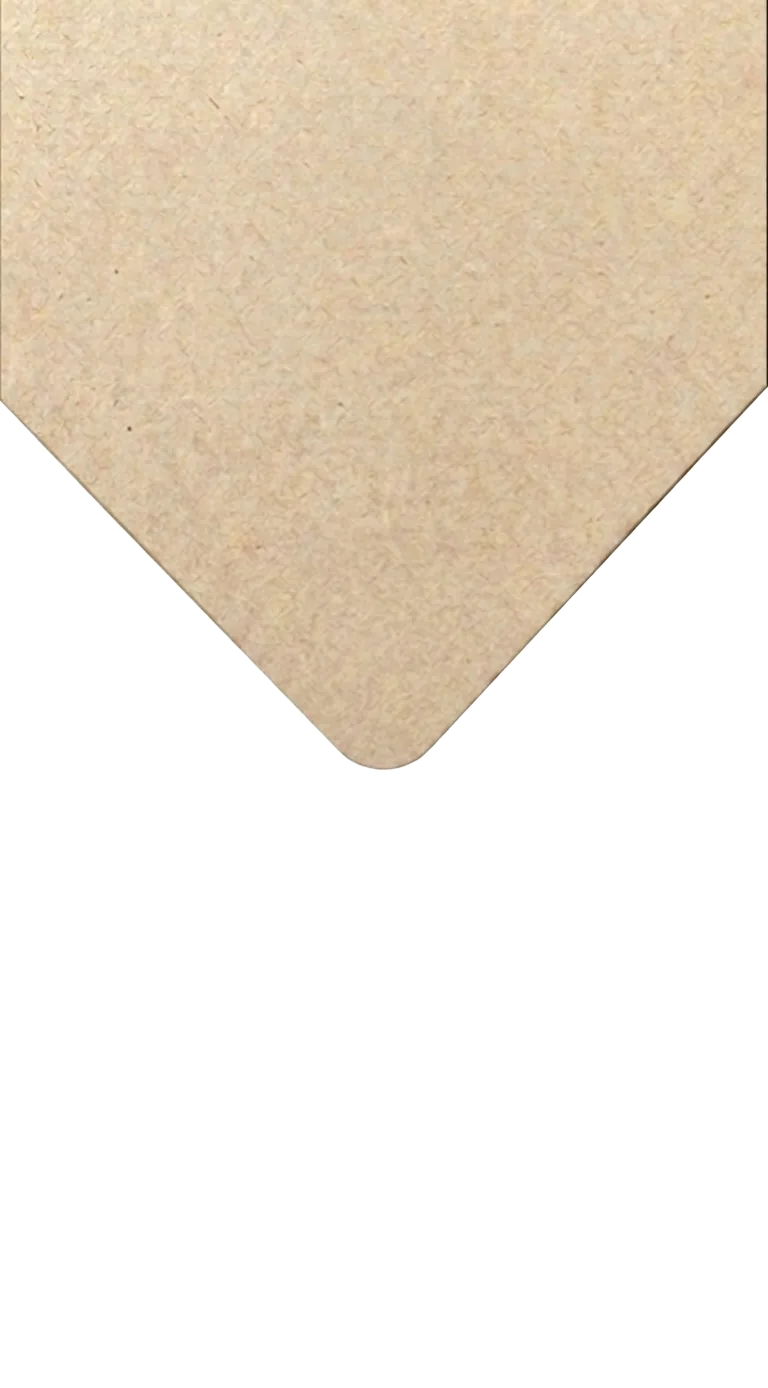
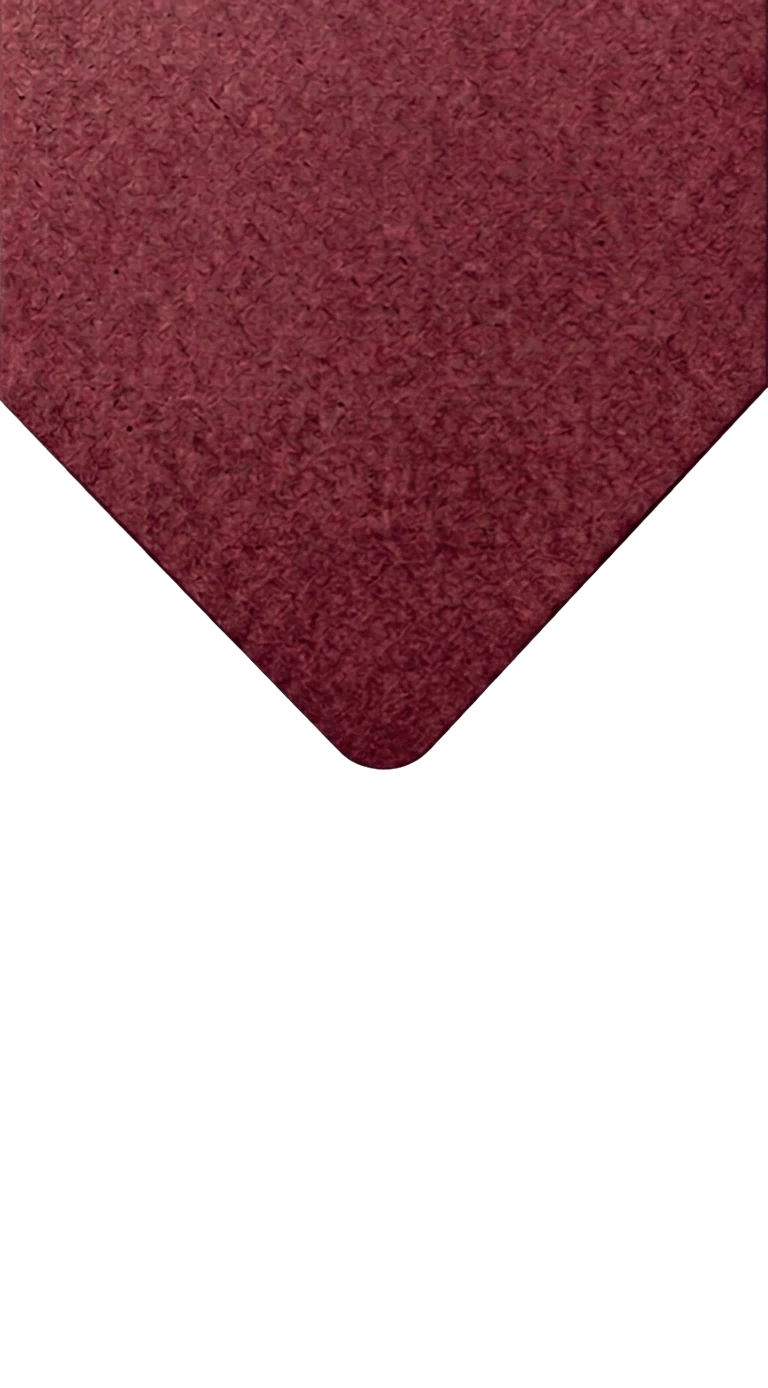
Burgundy theme: envelope, card, and site backgrounds
- Recolor the envelope to burgundy (new body + flap layers, white keyed
  out of the flap), keeping the 768x1388 geometry so the seal and
  slide-open animation stay aligned.
- Update the reveal poster to the new velvet card image (with the
  "لـ STYLE_BY_IB" line).
- Turn the whole site burgundy: recolor the dark theme to deep wine and
  make it the default/forced theme on open, so all sections reuse the
  existing gold/champagne light-text styles. Blend the countdown photo
  band, marquee, location, and preloader to the burgundy palette; flap
  and hint text switched to champagne for contrast.

Claude-Session: https://claude.ai/code/session_01AekXUfWR2AqzRwuQEMMTBZ

diff --git a/src/components/sections/Countdown.tsx b/src/components/sections/Countdown.tsx
@@ -129,14 +129,14 @@ export function Countdown() {
         className="pointer-events-none absolute inset-0 h-full w-full select-none object-cover object-center"
       />
 
-      {/* حجاب داكن يعتّم الحواف ويترك الصورة تظهر في الوسط مع بقاء الأرقام واضحة */}
+      {/* حجاب عنّابي يعتّم الحواف ويترك الصورة تظهر في الوسط مع بقاء الأرقام واضحة */}
       <div
-        className="pointer-events-none absolute inset-0 bg-[linear-gradient(to_bottom,#171310_0%,rgba(23,19,16,0.74)_20%,rgba(23,19,16,0.5)_50%,rgba(23,19,16,0.74)_80%,#171310_100%)]"
+        className="pointer-events-none absolute inset-0 bg-[linear-gradient(to_bottom,#2a0912_0%,rgba(42,9,18,0.76)_20%,rgba(42,9,18,0.5)_50%,rgba(42,9,18,0.76)_80%,#2a0912_100%)]"
         aria-hidden
       />
       {/* تظليل جانبي خفيف لعمق سينمائي */}
       <div
-        className="pointer-events-none absolute inset-0 bg-[radial-gradient(120%_100%_at_50%_50%,transparent_38%,rgba(15,12,9,0.55)_100%)]"
+        className="pointer-events-none absolute inset-0 bg-[radial-gradient(120%_100%_at_50%_50%,transparent_38%,rgba(20,6,12,0.55)_100%)]"
         aria-hidden
       />
 

diff --git a/src/components/envelope/Envelope.tsx b/src/components/envelope/Envelope.tsx
@@ -44,7 +44,7 @@ export function Envelope() {
 
   function open() {
     if (phase !== 'idle') return
-    setTheme('light')
+    setTheme('dark')
     setPhase('opening')
     window.setTimeout(() => setPhase('revealed'), 1250)
   }
@@ -114,7 +114,7 @@ export function Envelope() {
           />
 
           {/* السطر التمهيدي على اللسان */}
-          <p className="absolute inset-x-0 top-[11%] text-center font-body text-sm font-light tracking-wide text-[#4a3a28]/70 sm:text-base">
+          <p className="absolute inset-x-0 top-[11%] text-center font-body text-sm font-light tracking-wide text-champagne/75 sm:text-base">
             {ui.invitedEyebrow}
           </p>
 
@@ -168,7 +168,7 @@ export function Envelope() {
         {!opened && (
           <motion.p
             key="hint"
-            className="absolute bottom-[12%] left-1/2 z-30 -translate-x-1/2 text-center font-body text-sm font-light text-[#4a3a28]/70"
+            className="absolute bottom-[12%] left-1/2 z-30 -translate-x-1/2 text-center font-body text-sm font-light text-champagne/75"
             initial={{ opacity: 0 }}
             animate={{ opacity: [0.45, 0.9, 0.45] }}
             exit={{ opacity: 0, transition: { duration: 0.4, ease } }}

diff --git a/src/components/ui/ThemeToggle.tsx b/src/components/ui/ThemeToggle.tsx
@@ -30,7 +30,7 @@ export function ThemeToggle() {
       onClick={toggle}
       aria-label={theme === 'light' ? 'الوضع الليلي' : 'الوضع النهاري'}
       title={theme === 'light' ? 'الوضع الليلي' : 'الوضع النهاري'}
-      className="fixed end-4 top-4 z-[56] flex h-11 w-11 items-center justify-center rounded-full border border-beige-deep/50 bg-ivory/80 text-ink shadow-[0_10px_30px_-15px_rgba(30,22,12,0.6)] backdrop-blur transition-colors duration-500 dark:border-gold/40 dark:bg-noir/70 dark:text-champagne sm:end-6 sm:top-6"
+      className="fixed end-4 top-4 z-[56] flex h-11 w-11 items-center justify-center rounded-full border border-beige-deep/50 bg-ivory/80 text-ink shadow-[0_10px_30px_-15px_rgba(30,22,12,0.6)] backdrop-blur transition-colors duration-500 dark:border-gold/40 dark:bg-[#3a0d18]/75 dark:text-champagne sm:end-6 sm:top-6"
       whileHover={{ scale: 1.08 }}
       whileTap={{ scale: 0.92 }}
       initial={{ opacity: 0, y: -10 }}

diff --git a/src/context/theme.tsx b/src/context/theme.tsx
@@ -16,8 +16,9 @@ const ThemeContext = createContext<ThemeCtx | null>(null)
 /** Light/dark theme shared across the app, persisted in localStorage. */
 export function ThemeProvider({ children }: { children: ReactNode }) {
   const [theme, setTheme] = useState<Theme>(() => {
-    if (typeof window === 'undefined') return 'light'
-    return window.localStorage.getItem(STORAGE_KEY) === 'dark' ? 'dark' : 'light'
+    if (typeof window === 'undefined') return 'dark'
+    // البورجندي (الوضع الداكن) هو الافتراضي؛ النهاري فقط إذا اختاره الزائر صراحةً
+    return window.localStorage.getItem(STORAGE_KEY) === 'light' ? 'light' : 'dark'
   })
 
   useEffect(() => {

diff --git a/src/index.css b/src/index.css
@@ -29,21 +29,21 @@ body {
     radial-gradient(120% 80% at 50% 12%, #fffdf8 0%, #f8f4ec 42%, #efe7d7 100%);
 }
 
-/* ── Dark theme: the whole maison at night ── */
+/* ── Burgundy maison: deep wine backgrounds with gold ── */
 .dark {
   color-scheme: dark;
 }
 .dark body {
-  background-color: #171310;
+  background-color: #2a0912;
   color: #ede3cf;
 }
 .dark .bg-ambient {
   background:
-    radial-gradient(120% 80% at 50% 12%, #221b14 0%, #171310 48%, #0f0c09 100%);
+    radial-gradient(120% 80% at 50% 12%, #4a1020 0%, #2f0b16 48%, #1e0710 100%);
 }
 .dark ::selection {
   background: #c2a87e;
-  color: #171310;
+  color: #2a0912;
 }
 
 /* Cinematic film grain laid over the whole experience */

diff --git a/src/components/ui/Marquee.tsx b/src/components/ui/Marquee.tsx
@@ -5,7 +5,7 @@ export function Marquee() {
   const items = siteContent.ui.marquee
 
   return (
-    <div className="overflow-hidden border-y border-ink/10 bg-ivory/70 py-4 transition-colors duration-500 dark:border-champagne/10 dark:bg-noir/50">
+    <div className="overflow-hidden border-y border-ink/10 bg-ivory/70 py-4 transition-colors duration-500 dark:border-gold/15 dark:bg-[#3a0d18]/50">
       <div className="flex w-max animate-marquee hover:[animation-play-state:paused]">
         {[0, 1].map((half) => (
           <div key={half} className="flex items-center" aria-hidden={half === 1}>

diff --git a/index.html b/index.html
@@ -4,7 +4,7 @@
     <meta charset="UTF-8" />
     <link rel="icon" type="image/webp" href="/assets/logo.webp" />
     <meta name="viewport" content="width=device-width, initial-scale=1.0, viewport-fit=cover" />
-    <meta name="theme-color" content="#171310" />
+    <meta name="theme-color" content="#2a0912" />
     <meta
       name="description"
       content="أنتم مدعوون لحضور حفل الافتتاح الكبير لدار Style By IB — بوتيك قفاطين راقٍ في قالمة، الجزائر."

diff --git a/src/components/sections/Connect.tsx b/src/components/sections/Connect.tsx
@@ -44,7 +44,7 @@ function InstagramCard() {
       {/* رأس الملف الشخصي */}
       <div className="flex items-center gap-4">
         <span className="rounded-full bg-gradient-to-tr from-[#feda75] via-[#d62976] to-[#4f5bd5] p-[2.5px]">
-          <span className="block rounded-full bg-white p-[2px] dark:bg-[#1b1712]">
+          <span className="block rounded-full bg-white p-[2px] dark:bg-[#3a0d18]">
             <img
               src={images.logo}
               alt=""

diff --git a/src/components/sections/Location.tsx b/src/components/sections/Location.tsx
@@ -22,7 +22,7 @@ export function Location() {
   return (
     <section
       id="location"
-      className="bg-ivory/60 px-6 py-24 transition-colors duration-500 dark:bg-[#1B1510]/60 sm:py-28"
+      className="bg-ivory/60 px-6 py-24 transition-colors duration-500 dark:bg-[#3a0d18]/45 sm:py-28"
     >
       <div className="mx-auto max-w-4xl">
         <SectionHeading eyebrow={ui.location.eyebrow} title={ui.location.title} />

diff --git a/src/components/ui/Preloader.tsx b/src/components/ui/Preloader.tsx
@@ -7,7 +7,7 @@ const ease = [0.22, 1, 0.36, 1] as const
 export function Preloader() {
   return (
     <motion.div
-      className="fixed inset-0 z-[60] flex flex-col items-center justify-center bg-noir"
+      className="fixed inset-0 z-[60] flex flex-col items-center justify-center bg-[#2a0912]"
       exit={{ opacity: 0, transition: { duration: 0.9, ease } }}
       aria-hidden
     >
